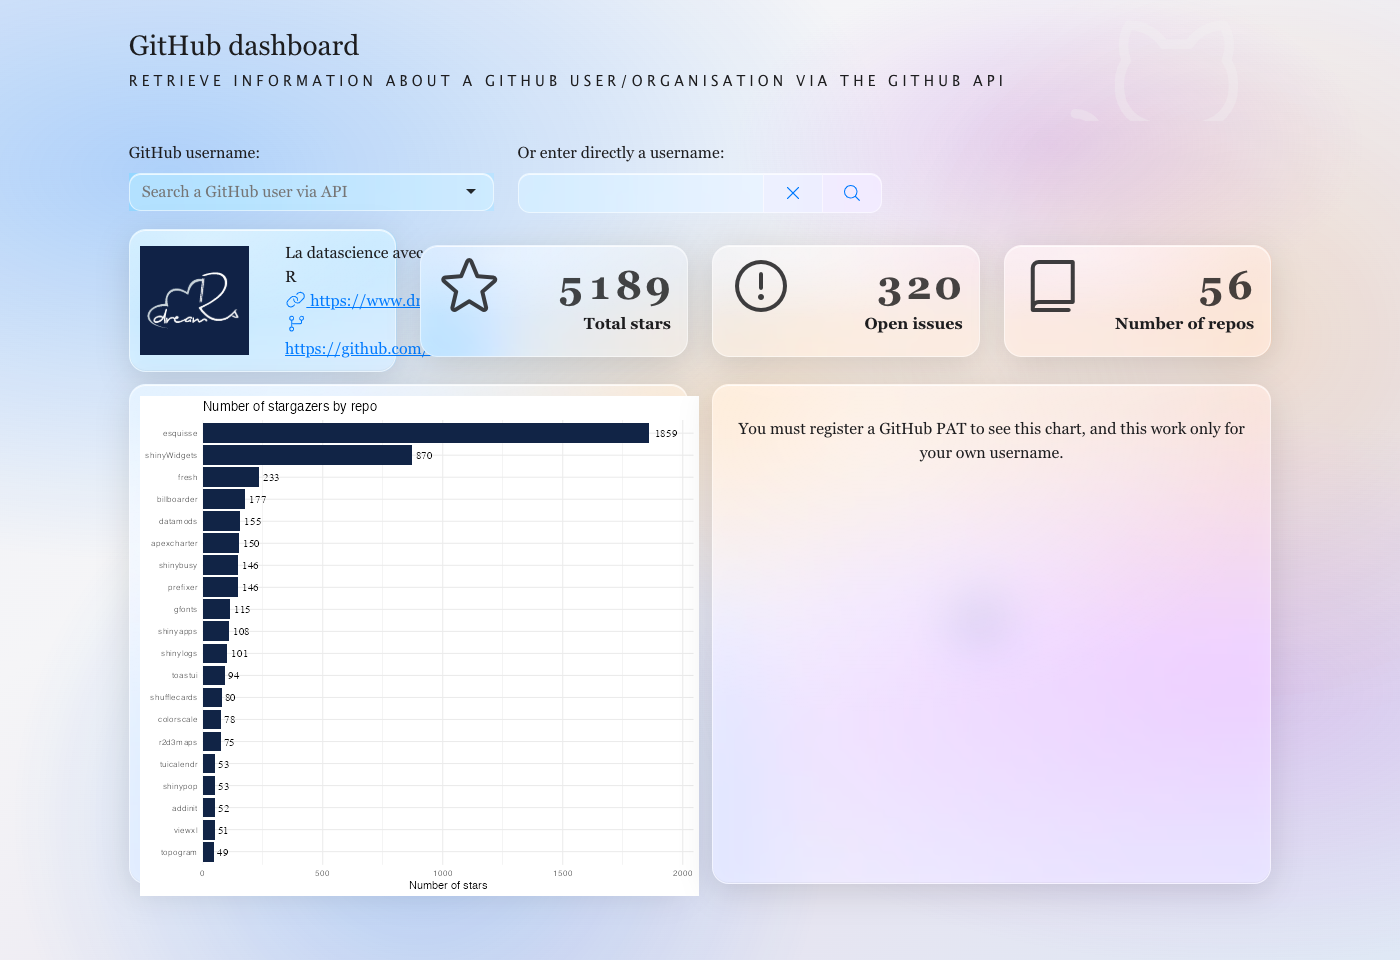
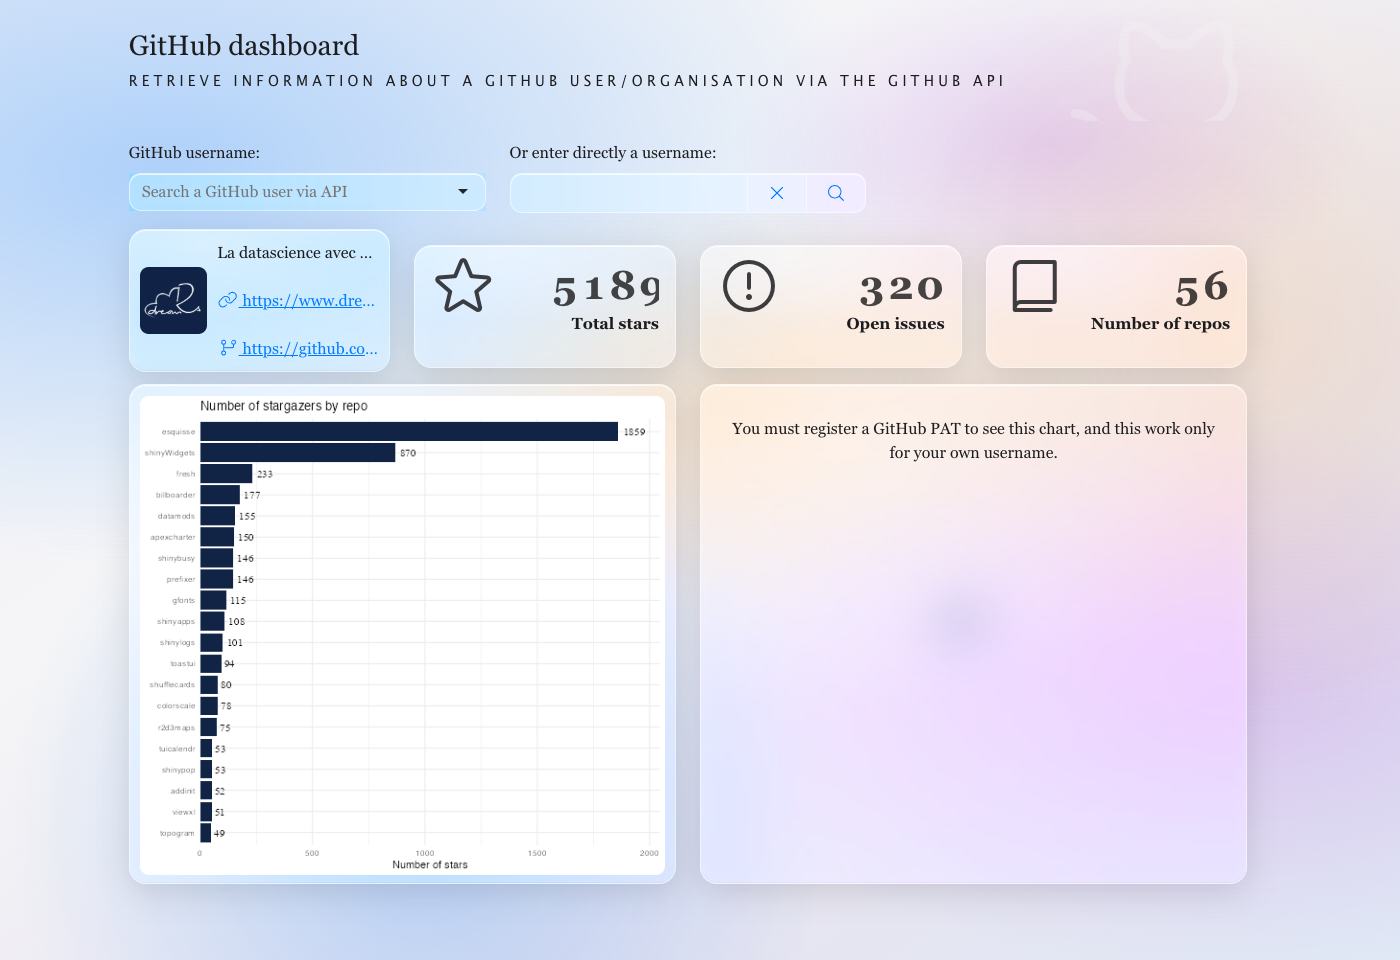
Deploying to gh-pages from @ ericrayanderson/shinyglass@cb3d6df9600174204b0efbac7879ab18f097ca17 🚀

diff --git a/news/index.html b/news/index.html
@@ -34,7 +34,8 @@
 
     <div class="section level2">
 <h2 class="pkg-version" data-toc-text="development version" id="shinyglass-development-version">shinyglass (development version)<a class="anchor" aria-label="anchor" href="#shinyglass-development-version"></a></h2>
-</div>
+<ul><li>Fix overlapping glass frames in multi-column layouts (e.g. dreamRs gh-dashboard avatar + statiCards): clip plot/html outputs to their surfaces, constrain flex columns, and ellipsize long avatar text.</li>
+</ul></div>
     <div class="section level2">
 <h2 class="pkg-version" data-toc-text="0.1.0" id="shinyglass-010">shinyglass 0.1.0<a class="anchor" aria-label="anchor" href="#shinyglass-010"></a></h2>
 <ul><li>Initial release.</li>

diff --git a/news/index.md b/news/index.md
@@ -2,6 +2,10 @@
 
 ## shinyglass (development version)
 
+- Fix overlapping glass frames in multi-column layouts (e.g. dreamRs
+  gh-dashboard avatar + statiCards): clip plot/html outputs to their
+  surfaces, constrain flex columns, and ellipsize long avatar text.
+
 ## shinyglass 0.1.0
 
 - Initial release.